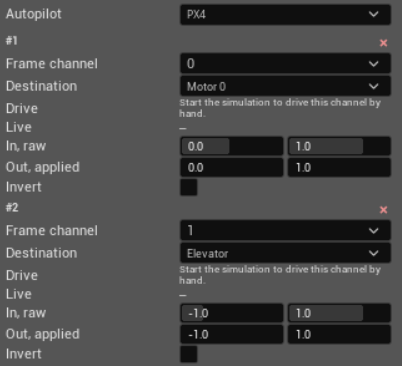
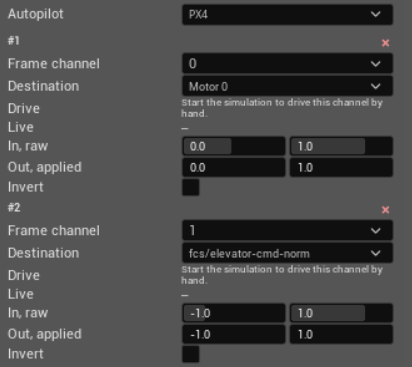
Correct input binding documentation

diff --git a/docs/source/editor/inputs.rst b/docs/source/editor/inputs.rst
@@ -20,9 +20,11 @@ Autopilot
    **(none)** for a vehicle that does not receive an autopilot actuator frame.
    The selector is disabled while the simulation is running.
 
-   Different autopilots may put the same control on different channels.
-   PteroSim stores bindings for each selected flight stack separately and
-   keeps the bindings for the other stacks when the selection changes.
+   A binding created in the panel applies to every flight stack. A
+   ``Controls.xml`` file can also contain bindings with a ``stack`` attribute;
+   the panel shows the ones for the selected flight stack and preserves the
+   hidden bindings for other stacks. The panel cannot add or change a
+   binding's ``stack`` attribute.
 
 Bindings
 --------
@@ -37,18 +39,27 @@ Bindings
    The vehicle input that receives the mapped value. The list includes each
    motor, externally driven inputs from the vehicle's logic graphs, an
    installed gripper, the axes of a single installed gimbal, and writable
-   properties published by the loaded flight model. The list is searchable,
-   and a property path can also be entered directly.
+   properties published by the loaded flight model. Of the model properties,
+   the list contains properties declared by the vehicle and JSBSim command
+   inputs. The list is searchable. Any other writable property path can be
+   entered directly.
 
-   Changing the destination resets both ranges to suitable defaults. Motors,
-   flaps, and grippers use 0 to 1. Bidirectional controls use -1 to 1. Gimbal
-   axes use an input range of -1 to 1 and an output range of -90 to 90
-   degrees. Adjust the ranges afterwards if the destination expects something
-   else.
+   Before the model has been loaded by **Apply to FDM**, its properties are
+   not available to the panel. The menu then says **Apply once and this
+   model's own properties are listed here**; paths can still be entered by
+   hand.
+
+   Selecting a motor or gripper resets both ranges to 0 to 1. Selecting a
+   gimbal axis resets the input range to -1 to 1 and the output range to -90
+   to 90 degrees. Selecting a property does not change either range. Set the
+   ranges manually after redirecting a binding to a property; otherwise, for
+   example, a 0-to-1 motor range left on a bidirectional control can drive it
+   in only one direction.
 
    PteroSim checks entered property paths when the changes are applied. It
-   refuses a path that the loaded model does not publish as a writable
-   property and suggests a similarly named property when possible.
+   can perform this check only after the model has been loaded. It then
+   refuses a path that the model does not publish as a writable property and
+   suggests a similarly named property when possible.
 
 **Drive**
    Sends a raw channel value by hand for checking the binding. It is available
@@ -64,15 +75,19 @@ Bindings
    Shows the latest raw channel value followed by the value currently present
    at its destination. A dash means that the simulation is stopped or no frame
    has arrived. If the incoming frame does not contain the selected channel,
-   the row reports that the channel is absent. If the channel arrived but no
-   destination consumed it, the row reports that nothing reads it.
+   the row reports that the channel is absent. **nothing reads this** means
+   that the panel cannot observe where the value went; it does not prove that
+   the destination ignored it. A working gripper binding, for example, always
+   shows this message.
 
 **In, raw**
    The minimum and maximum values expected on the incoming channel. PteroSim
    clamps the received value to this range and converts its position within
    the range to a value from 0 to 1. A throttle commonly arrives as 0 to 1;
    a centred control commonly arrives as -1 to 1. The two limits must not be
-   equal.
+   equal; an equal pair is rejected as **Input range too small**. The editor
+   limits both fields to -2 through 2. If any channel in a received frame is
+   outside that range, PteroSim rejects the entire frame.
 
 **Out, applied**
    The destination value produced at the two ends of **In, raw**. Values
@@ -87,6 +102,19 @@ Bindings
    four range fields.
 
 The red **x** removes one binding. **+ Add binding** creates a row on the first
-unused frame channel and selects the first unbound motor when one is
-available. All 16 channels can be used; duplicate channel numbers remain
-valid for fan-out.
+unused frame channel and selects the first unbound motor. If every motor is
+already bound, the new row still targets **Motor 0** and asks for another
+destination. The button refuses to add a row when all 16 channel numbers are
+already in use. To fan one channel out to several destinations, add a row on
+an unused channel and then change its **Frame channel** to the duplicate
+number.
+
+Errors
+------
+
+Red text above the bindings reports failures that leave the inputs unusable.
+**No connector was fitted, so no autopilot can reach this vehicle** means that
+the selected flight-stack connector could not be installed. **Controls.xml
+was not usable and no channels were loaded** means that the controls file
+could not be parsed or validated; the rest of the line gives the specific
+cause.
